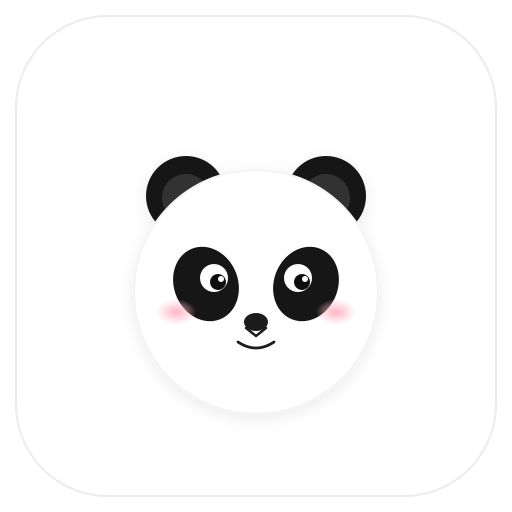
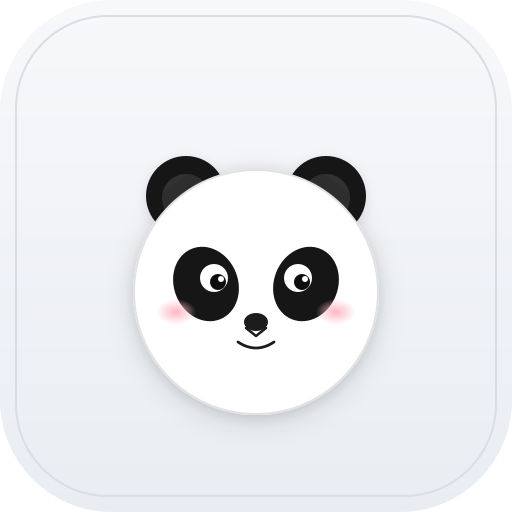
fix: 熊猫 PWA 图标增加阴影与浅灰底色
合并加强阴影与浅灰渐变底色，提升白底桌面上的辨识度，并同步更新 manifest 背景色。

Changed region(s): [[0.25, 0.4688, 0.75, 0.875]]

diff --git a/apps/web/vite.config.ts b/apps/web/vite.config.ts
@@ -13,7 +13,7 @@ export default defineConfig({
         short_name: "增长日记",
         description: "记录股票、读书与生活的增长日记",
         theme_color: "#0f1218",
-        background_color: "#ffffff",
+        background_color: "#f7f8fa",
         display: "standalone",
         start_url: "/",
         icons: [
